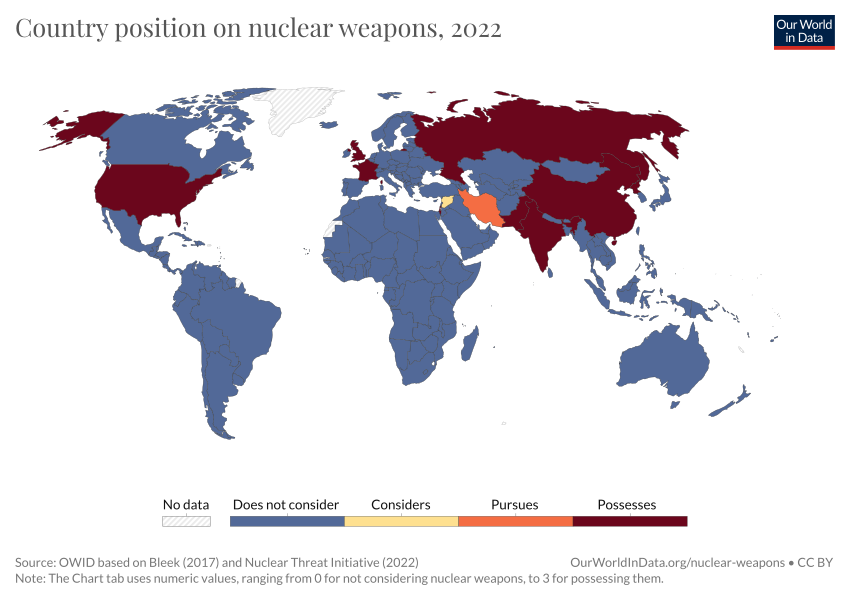
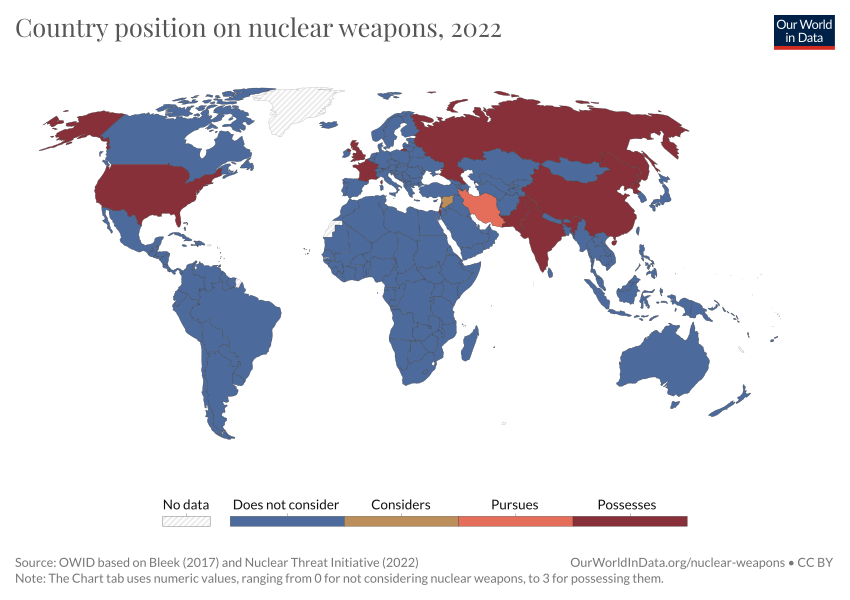
Deploy 2022-09-26T10:12:49.958Z Updating chart nuclear-weapons-proliferation Updating chart country-position-nuclear-weapons

diff --git a/co2-emissions.html b/co2-emissions.html
@@ -1,4 +1,4 @@
-<!doctype html><html><head><meta name="viewport" content="width=device-width, initial-scale=1"/><title>CO2 emissions - Our World in Data</title><meta name="description" content="How much CO2 does the world emit? Which countries emit the most?"/><link rel="canonical" href="https://ourworldindata.org/co2-emissions"/><link rel="alternate" type="application/atom+xml" href="/atom.xml"/><link rel="apple-touch-icon" sizes="180x180" href="/apple-touch-icon.png"/><meta property="fb:app_id" content="1149943818390250"/><meta property="og:url" content="https://ourworldindata.org/co2-emissions"/><meta property="og:title" content="CO2 emissions"/><meta property="og:description" content="How much CO2 does the world emit? Which countries emit the most?"/><meta property="og:image" content="https://ourworldindata.org/uploads/2022/03/Screenshot-2022-03-04-at-16.51.31-768x480.png"/><meta property="og:site_name" content="Our World in Data"/><meta name="twitter:card" content="summary_large_image"/><meta name="twitter:site" content="@OurWorldInData"/><meta name="twitter:creator" content="@OurWorldInData"/><meta name="twitter:title" content="CO2 emissions"/><meta name="twitter:description" content="How much CO2 does the world emit? Which countries emit the most?"/><meta name="twitter:image" content="https://ourworldindata.org/uploads/2022/03/Screenshot-2022-03-04-at-16.51.31-768x480.png"/><link href="https://fonts.googleapis.com/css?family=Lato:300,400,400i,700,700i|Playfair+Display:400,700&amp;display=swap" rel="stylesheet"/><link rel="stylesheet" href="https://ourworldindata.org/assets/commons.css"/><link rel="stylesheet" href="https://ourworldindata.org/assets/owid.css"/><meta name="citation_title" content="CO₂ and Greenhouse Gas Emissions"/><meta name="citation_fulltext_html_url" content="https://ourworldindata.org/co2-and-other-greenhouse-gas-emissions"/><meta name="citation_fulltext_world_readable" content=""/><meta name="citation_publication_date" content="2020/05/11"/><meta name="citation_journal_title" content="Our World in Data"/><meta name="citation_journal_abbrev" content="Our World in Data"/><meta name="citation_author" content="Hannah Ritchie"/><meta name="citation_author" content="Max Roser"/><meta name="citation_author" content="Pablo Rosado"/></head><body class=""><header class="site-header"><div class="wrapper site-navigation-bar"><div class="site-logo"><a href="/">Our World<br/> in Data</a></div><nav class="site-navigation"><div class="topics-button-wrapper"><a href="/#entries" class="topics-button"><div class="label">Articles <br/><strong>by topic</strong></div><div class="icon"><svg width="12" height="6"><path d="M0,0 L12,0 L6,6 Z" fill="currentColor"></path></svg></div></a></div><div><div class="site-primary-navigation"><form class="HeaderSearch" action="/search" method="GET"><input type="search" name="q" placeholder="Search..."/><div class="icon"><svg aria-hidden="true" focusable="false" data-prefix="fas" data-icon="magnifying-glass" class="svg-inline--fa fa-magnifying-glass " role="img" xmlns="http://www.w3.org/2000/svg" viewBox="0 0 512 512"><path fill="currentColor" d="M416 208c0 45.9-14.9 88.3-40 122.7L502.6 457.4c12.5 12.5 12.5 32.8 0 45.3s-32.8 12.5-45.3 0L330.7 376c-34.4 25.2-76.8 40-122.7 40C93.1 416 0 322.9 0 208S93.1 0 208 0S416 93.1 416 208zM208 352c79.5 0 144-64.5 144-144s-64.5-144-144-144S64 128.5 64 208s64.5 144 144 144z"></path></svg></div></form><ul class="site-primary-links"><li><a href="/blog" data-track-note="header-navigation">Latest</a></li><li><a href="/about" data-track-note="header-navigation">About</a></li><li><a href="/donate" data-track-note="header-navigation">Donate</a></li></ul></div><div class="site-secondary-navigation"><ul class="site-secondary-links"><li><a href="/charts" data-track-note="header-navigation">All charts</a></li><li><a href="https://sdg-tracker.org" data-track-note="header-navigation">Sustainable Development Goals Tracker</a></li></ul></div></div></nav><div class="header-logos-wrapper"><a href="https://www.oxfordmartin.ox.ac.uk/global-development" class="oxford-logo"><img src="https://ourworldindata.org/oms-logo.svg" alt="Oxford Martin School logo"/></a><a href="https://global-change-data-lab.org/" class="gcdl-logo"><img src="https://ourworldindata.org/gcdl-logo.svg" alt="Global Change Data Lab logo"/></a></div><div class="mobile-site-navigation"><button data-track-note="mobile-search-button"><svg aria-hidden="true" focusable="false" data-prefix="fas" data-icon="magnifying-glass" class="svg-inline--fa fa-magnifying-glass " role="img" xmlns="http://www.w3.org/2000/svg" viewBox="0 0 512 512"><path fill="currentColor" d="M416 208c0 45.9-14.9 88.3-40 122.7L502.6 457.4c12.5 12.5 12.5 32.8 0 45.3s-32.8 12.5-45.3 0L330.7 376c-34.4 25.2-76.8 40-122.7 40C93.1 416 0 322.9 0 208S93.1 0 208 0S416 93.1 416 208zM208 352c79.5 0 144-64.5 144-144s-64.5-144-144-144S64 128.5 64 208s64.5 144 144 144z"></path></svg></button><button data-track-note="mobile-newsletter-button"><svg aria-hidden="true" focusable="false" data-prefix="fas" data-icon="envelope-open-text" class="svg-inline--fa fa-envelope-open-text " role="img" xmlns="http://www.w3.org/2000/svg" viewBox="0 0 512 512"><path fill="currentColor" d="M215.4 96H144 107.8 96v8.8V144v40.4 89L.2 202.5c1.6-18.1 10.9-34.9 25.7-45.8L48 140.3V96c0-26.5 21.5-48 48-48h76.6l49.9-36.9C232.2 3.9 243.9 0 256 0s23.8 3.9 33.5 11L339.4 48H416c26.5 0 48 21.5 48 48v44.3l22.1 16.4c14.8 10.9 24.1 27.7 25.7 45.8L416 273.4v-89V144 104.8 96H404.2 368 296.6 215.4zM0 448V242.1L217.6 403.3c11.1 8.2 24.6 12.7 38.4 12.7s27.3-4.4 38.4-12.7L512 242.1V448v0c0 35.3-28.7 64-64 64H64c-35.3 0-64-28.7-64-64v0zM176 160H336c8.8 0 16 7.2 16 16s-7.2 16-16 16H176c-8.8 0-16-7.2-16-16s7.2-16 16-16zm0 64H336c8.8 0 16 7.2 16 16s-7.2 16-16 16H176c-8.8 0-16-7.2-16-16s7.2-16 16-16z"></path></svg></button><button data-track-note="mobile-hamburger-button"><svg aria-hidden="true" focusable="false" data-prefix="fas" data-icon="bars" class="svg-inline--fa fa-bars " role="img" xmlns="http://www.w3.org/2000/svg" viewBox="0 0 448 512"><path fill="currentColor" d="M0 96C0 78.3 14.3 64 32 64H416c17.7 0 32 14.3 32 32s-14.3 32-32 32H32C14.3 128 0 113.7 0 96zM0 256c0-17.7 14.3-32 32-32H416c17.7 0 32 14.3 32 32s-14.3 32-32 32H32c-17.7 0-32-14.3-32-32zM448 416c0 17.7-14.3 32-32 32H32c-17.7 0-32-14.3-32-32s14.3-32 32-32H416c17.7 0 32 14.3 32 32z"></path></svg></button></div></div></header><div class="alert-banner"><div class="content"><div class="text"><strong>COVID-19 vaccinations, cases, excess mortality, and much more</strong></div><a href="/coronavirus#explore-the-global-situation" data-track-note="covid-banner-click">Explore our COVID-19 data</a></div></div><main><article class="page with-sidebar large-banner"><div class="offset-header"><header class="article-header"><div class="article-titles"><h1 class="entry-title">CO2 emissions</h1><div class="breadcrumb"><a href="/">Home</a><span class="separator"><svg aria-hidden="true" focusable="false" data-prefix="fas" data-icon="angle-right" class="svg-inline--fa fa-angle-right " role="img" xmlns="http://www.w3.org/2000/svg" viewBox="0 0 320 512"><path fill="currentColor" d="M278.6 233.4c12.5 12.5 12.5 32.8 0 45.3l-160 160c-12.5 12.5-32.8 12.5-45.3 0s-12.5-32.8 0-45.3L210.7 256 73.4 118.6c-12.5-12.5-12.5-32.8 0-45.3s32.8-12.5 45.3 0l160 160z"></path></svg></span><a data-track-note="breadcrumb" href="/co2-and-other-greenhouse-gas-emissions">CO₂ and GHG Emissions</a><span class="separator"><svg aria-hidden="true" focusable="false" data-prefix="fas" data-icon="angle-right" class="svg-inline--fa fa-angle-right " role="img" xmlns="http://www.w3.org/2000/svg" viewBox="0 0 320 512"><path fill="currentColor" d="M278.6 233.4c12.5 12.5 12.5 32.8 0 45.3l-160 160c-12.5 12.5-32.8 12.5-45.3 0s-12.5-32.8 0-45.3L210.7 256 73.4 118.6c-12.5-12.5-12.5-32.8 0-45.3s32.8-12.5 45.3 0l160 160z"></path></svg></span><span>CO₂ emissions</span></div></div><div class="authors-byline"><a href="/team">by Hannah Ritchie and Max Roser</a></div><div class="tools"><a href="#licence"><svg aria-hidden="true" focusable="false" data-prefix="fab" data-icon="creative-commons" class="svg-inline--fa fa-creative-commons " role="img" xmlns="http://www.w3.org/2000/svg" viewBox="0 0 496 512"><path fill="currentColor" d="M245.83 214.87l-33.22 17.28c-9.43-19.58-25.24-19.93-27.46-19.93-22.13 0-33.22 14.61-33.22 43.84 0 23.57 9.21 43.84 33.22 43.84 14.47 0 24.65-7.09 30.57-21.26l30.55 15.5c-6.17 11.51-25.69 38.98-65.1 38.98-22.6 0-73.96-10.32-73.96-77.05 0-58.69 43-77.06 72.63-77.06 30.72-.01 52.7 11.95 65.99 35.86zm143.05 0l-32.78 17.28c-9.5-19.77-25.72-19.93-27.9-19.93-22.14 0-33.22 14.61-33.22 43.84 0 23.55 9.23 43.84 33.22 43.84 14.45 0 24.65-7.09 30.54-21.26l31 15.5c-2.1 3.75-21.39 38.98-65.09 38.98-22.69 0-73.96-9.87-73.96-77.05 0-58.67 42.97-77.06 72.63-77.06 30.71-.01 52.58 11.95 65.56 35.86zM247.56 8.05C104.74 8.05 0 123.11 0 256.05c0 138.49 113.6 248 247.56 248 129.93 0 248.44-100.87 248.44-248 0-137.87-106.62-248-248.44-248zm.87 450.81c-112.54 0-203.7-93.04-203.7-202.81 0-105.42 85.43-203.27 203.72-203.27 112.53 0 202.82 89.46 202.82 203.26-.01 121.69-99.68 202.82-202.84 202.82z"></path></svg>Reuse our work freely</a><a href="#citation"><svg aria-hidden="true" focusable="false" data-prefix="fas" data-icon="book" class="svg-inline--fa fa-book " role="img" xmlns="http://www.w3.org/2000/svg" viewBox="0 0 448 512"><path fill="currentColor" d="M96 0C43 0 0 43 0 96V416c0 53 43 96 96 96H384h32c17.7 0 32-14.3 32-32s-14.3-32-32-32V384c17.7 0 32-14.3 32-32V32c0-17.7-14.3-32-32-32H384 96zm0 384H352v64H96c-17.7 0-32-14.3-32-32s14.3-32 32-32zm32-240c0-8.8 7.2-16 16-16H336c8.8 0 16 7.2 16 16s-7.2 16-16 16H144c-8.8 0-16-7.2-16-16zm16 48H336c8.8 0 16 7.2 16 16s-7.2 16-16 16H144c-8.8 0-16-7.2-16-16s7.2-16 16-16z"></path></svg>Cite this research</a></div></header></div><div class="offset-subnavigation"><div class="site-subnavigation"><div class="site-subnavigation-scroll"><ul class="site-subnavigation-links"><li class="highlight"><a href="/co2-and-other-greenhouse-gas-emissions" data-track-note="co2-subnav-co2-and-ghg-emissions">CO₂ and GHG Emissions<svg aria-hidden="true" focusable="false" data-prefix="fas" data-icon="chevron-left" class="svg-inline--fa fa-chevron-left " role="img" xmlns="http://www.w3.org/2000/svg" viewBox="0 0 384 512"><path fill="currentColor" d="M41.4 233.4c-12.5 12.5-12.5 32.8 0 45.3l192 192c12.5 12.5 32.8 12.5 45.3 0s12.5-32.8 0-45.3L109.3 256 278.6 86.6c12.5-12.5 12.5-32.8 0-45.3s-32.8-12.5-45.3 0l-192 192z"></path></svg></a></li><li class=""><a href="/co2-and-other-greenhouse-gas-emissions#co2-and-greenhouse-gas-emissions-country-profiles" data-track-note="co2-subnav-by-country">By country</a></li><li class=""><a href="/explorers/co2" data-track-note="co2-subnav-co2-data-explorer">Data explorer</a></li><li class="current"><a href="/co2-emissions" data-track-note="co2-subnav-co2-emissions">CO₂ emissions</a></li><li class=""><a href="/emissions-by-fuel" data-track-note="co2-subnav-by-fuel">CO₂ by fuel</a></li><li class=""><a href="/greenhouse-gas-emissions" data-track-note="co2-subnav-ghg-emissions">GHG emissions</a></li><li class=""><a href="/emissions-by-sector" data-track-note="co2-subnav-by-sector">By sector</a></li><li class=""><a href="/atmospheric-concentrations" data-track-note="co2-subnav-atm-concentrations">Atmospheric concentrations</a></li><li class=""><a href="/explorers/climate-change" data-track-note="co2-subnav-climate-impacts">Climate impacts</a></li></ul></div></div></div><div class="content-wrapper"><div class="toc-wrapper"><aside class="entry-sidebar"><div class="sticky-sentinel"></div><nav class="entry-toc"><ul><li><a href="#" data-track-note="toc-header">CO2 emissions</a></li><li class="section"><a href="#global-co2-emissions-from-fossil-fuels" data-track-note="toc-link">Global CO2 emissions from fossil fuels</a></li><li class="subsection"><a href="#global-co2-emissions-from-fossil-fuels-global-co2-emissions-from-fossil-fuels" data-track-note="toc-link">Global CO2 emissions from fossil fuels</a></li><li class="subsection"><a href="#global-co2-emissions-from-fossil-fuels-and-land-use-change" data-track-note="toc-link">Global CO2 emissions from fossil fuels and land use change</a></li><li class="subsection"><a href="#co2-emissions-by-region" data-track-note="toc-link">CO2 emissions by region</a></li><li class="section"><a href="#per-capita-co2-emissions" data-track-note="toc-link">Per capita CO2 emissions</a></li><li class="section"><a href="#annual-co2-emissions" data-track-note="toc-link">Annual CO2 emissions</a></li><li class="section"><a href="#annual-change-in-co2-emissions" data-track-note="toc-link">Annual change in CO2 emissions</a></li><li class="section"><a href="#cumulative-co2-emissions" data-track-note="toc-link">Cumulative CO2 emissions</a></li><li class="section"><a href="#consumption-based-trade-adjusted-emissions" data-track-note="toc-link">Consumption-based (trade-adjusted) emissions</a></li><li class="section"><a href="#decoupling-co2-emissions-from-economic-growth" data-track-note="toc-link">Decoupling CO₂ emissions from economic growth</a></li><li class="section"><a href="#global-inequalities-in-co2-emissions" data-track-note="toc-link">Global inequalities in CO2 emissions</a></li><li class="subsection"><a href="#global-inequalities-by-production" data-track-note="toc-link">Global inequalities by production</a></li><li class="subsection"><a href="#global-inequalities-by-consumption" data-track-note="toc-link">Global inequalities by consumption</a></li><li class="section"><a href="#how-do-we-measure-or-estimate-co2-emissions" data-track-note="toc-link">How do we measure or estimate CO2 emissions?</a></li><li class="section"><a href="#endnotes" data-track-note="toc-link">Endnotes</a></li><li class="section"><a href="#licence" data-track-note="toc-link">Licence</a></li><li class="section"><a href="#citation" data-track-note="toc-link">Citation</a></li></ul></nav><div class="toggle-toc"><button data-track-note="page-toggle-toc" aria-label="Open table of contents"><svg aria-hidden="true" focusable="false" data-prefix="fas" data-icon="bars" class="svg-inline--fa fa-bars " role="img" xmlns="http://www.w3.org/2000/svg" viewBox="0 0 448 512"><path fill="currentColor" d="M0 96C0 78.3 14.3 64 32 64H416c17.7 0 32 14.3 32 32s-14.3 32-32 32H32C14.3 128 0 113.7 0 96zM0 256c0-17.7 14.3-32 32-32H416c17.7 0 32 14.3 32 32s-14.3 32-32 32H32c-17.7 0-32-14.3-32-32zM448 416c0 17.7-14.3 32-32 32H32c-17.7 0-32-14.3-32-32s14.3-32 32-32H416c17.7 0 32 14.3 32 32z"></path></svg><span class="label">Contents</span></button></div></aside></div><div class="offset-content"><div class="content-and-footnotes"><div class="article-content"><section><div class="wp-block-columns is-style-sticky-right"><div class="wp-block-column"><p>You can&nbsp;<strong><a href="https://github.com/owid/co2-data">download</a></strong>&nbsp;our complete <em>Our World in Data</em> CO<sub>2</sub> and Greenhouse Gas Emissions database.</p><hr class="wp-block-separator"><p>Carbon dioxide emissions are the primary driver of global climate change. It’s widely recognised that to avoid the worst impacts of climate change, the world needs to urgently reduce emissions. But, how this responsibility is shared between regions, countries, and individuals has been an endless point of contention in international discussions. </p><p>This debate arises from the various ways in which emissions are compared: as annual emissions by country; emissions per person; historical contributions; and whether they adjust for traded goods and services. These metrics can tell very different stories. </p><p>We teamed up with the YouTube channel, <em>Kurzgesagt</em>, to produce a video which explored these different metrics in detail: <a href="https://www.youtube.com/watch?v=ipVxxxqwBQw">‘Who is responsible for climate change? – Who needs to fix it?’</a>. All of the data and research featured in this video is contained in this article: below we look in detail at the many ways emissions are broken down.</p><div class="wp-container-6331745496db6 wp-block-group">    <div class="block-wrapper"><div class="wp-block-owid-prominent-link with-image" data-no-lightbox="true" data-style="is-style-thin" data-title="&nbsp;‘Who is responsible for climate change? – Who needs to fix it?’"><a href="https://www.youtube.com/watch?v=ipVxxxqwBQw"><figure><img width="768" height="433" src="https://ourworldindata.org/uploads/2020/06/CO2-Kurzgesagt-768x433.png" class="attachment-medium_large size-medium_large" alt="Co2 kurzgesagt" loading="lazy" srcset="https://ourworldindata.org/uploads/2020/06/CO2-Kurzgesagt-768x433.png 768w, https://ourworldindata.org/uploads/2020/06/CO2-Kurzgesagt-400x225.png 400w, https://ourworldindata.org/uploads/2020/06/CO2-Kurzgesagt-800x451.png 800w, https://ourworldindata.org/uploads/2020/06/CO2-Kurzgesagt-150x84.png 150w, https://ourworldindata.org/uploads/2020/06/CO2-Kurzgesagt.png 1422w" sizes="(max-width: 768px) 100vw, 768px" data-high-res-src="https://ourworldindata.org/uploads/2020/06/CO2-Kurzgesagt.png"></figure><div class="content-wrapper"><div class="content">
+<!doctype html><html><head><meta name="viewport" content="width=device-width, initial-scale=1"/><title>CO2 emissions - Our World in Data</title><meta name="description" content="How much CO2 does the world emit? Which countries emit the most?"/><link rel="canonical" href="https://ourworldindata.org/co2-emissions"/><link rel="alternate" type="application/atom+xml" href="/atom.xml"/><link rel="apple-touch-icon" sizes="180x180" href="/apple-touch-icon.png"/><meta property="fb:app_id" content="1149943818390250"/><meta property="og:url" content="https://ourworldindata.org/co2-emissions"/><meta property="og:title" content="CO2 emissions"/><meta property="og:description" content="How much CO2 does the world emit? Which countries emit the most?"/><meta property="og:image" content="https://ourworldindata.org/uploads/2022/03/Screenshot-2022-03-04-at-16.51.31-768x480.png"/><meta property="og:site_name" content="Our World in Data"/><meta name="twitter:card" content="summary_large_image"/><meta name="twitter:site" content="@OurWorldInData"/><meta name="twitter:creator" content="@OurWorldInData"/><meta name="twitter:title" content="CO2 emissions"/><meta name="twitter:description" content="How much CO2 does the world emit? Which countries emit the most?"/><meta name="twitter:image" content="https://ourworldindata.org/uploads/2022/03/Screenshot-2022-03-04-at-16.51.31-768x480.png"/><link href="https://fonts.googleapis.com/css?family=Lato:300,400,400i,700,700i|Playfair+Display:400,700&amp;display=swap" rel="stylesheet"/><link rel="stylesheet" href="https://ourworldindata.org/assets/commons.css"/><link rel="stylesheet" href="https://ourworldindata.org/assets/owid.css"/><meta name="citation_title" content="CO₂ and Greenhouse Gas Emissions"/><meta name="citation_fulltext_html_url" content="https://ourworldindata.org/co2-and-other-greenhouse-gas-emissions"/><meta name="citation_fulltext_world_readable" content=""/><meta name="citation_publication_date" content="2020/05/11"/><meta name="citation_journal_title" content="Our World in Data"/><meta name="citation_journal_abbrev" content="Our World in Data"/><meta name="citation_author" content="Hannah Ritchie"/><meta name="citation_author" content="Max Roser"/><meta name="citation_author" content="Pablo Rosado"/></head><body class=""><header class="site-header"><div class="wrapper site-navigation-bar"><div class="site-logo"><a href="/">Our World<br/> in Data</a></div><nav class="site-navigation"><div class="topics-button-wrapper"><a href="/#entries" class="topics-button"><div class="label">Articles <br/><strong>by topic</strong></div><div class="icon"><svg width="12" height="6"><path d="M0,0 L12,0 L6,6 Z" fill="currentColor"></path></svg></div></a></div><div><div class="site-primary-navigation"><form class="HeaderSearch" action="/search" method="GET"><input type="search" name="q" placeholder="Search..."/><div class="icon"><svg aria-hidden="true" focusable="false" data-prefix="fas" data-icon="magnifying-glass" class="svg-inline--fa fa-magnifying-glass " role="img" xmlns="http://www.w3.org/2000/svg" viewBox="0 0 512 512"><path fill="currentColor" d="M416 208c0 45.9-14.9 88.3-40 122.7L502.6 457.4c12.5 12.5 12.5 32.8 0 45.3s-32.8 12.5-45.3 0L330.7 376c-34.4 25.2-76.8 40-122.7 40C93.1 416 0 322.9 0 208S93.1 0 208 0S416 93.1 416 208zM208 352c79.5 0 144-64.5 144-144s-64.5-144-144-144S64 128.5 64 208s64.5 144 144 144z"></path></svg></div></form><ul class="site-primary-links"><li><a href="/blog" data-track-note="header-navigation">Latest</a></li><li><a href="/about" data-track-note="header-navigation">About</a></li><li><a href="/donate" data-track-note="header-navigation">Donate</a></li></ul></div><div class="site-secondary-navigation"><ul class="site-secondary-links"><li><a href="/charts" data-track-note="header-navigation">All charts</a></li><li><a href="https://sdg-tracker.org" data-track-note="header-navigation">Sustainable Development Goals Tracker</a></li></ul></div></div></nav><div class="header-logos-wrapper"><a href="https://www.oxfordmartin.ox.ac.uk/global-development" class="oxford-logo"><img src="https://ourworldindata.org/oms-logo.svg" alt="Oxford Martin School logo"/></a><a href="https://global-change-data-lab.org/" class="gcdl-logo"><img src="https://ourworldindata.org/gcdl-logo.svg" alt="Global Change Data Lab logo"/></a></div><div class="mobile-site-navigation"><button data-track-note="mobile-search-button"><svg aria-hidden="true" focusable="false" data-prefix="fas" data-icon="magnifying-glass" class="svg-inline--fa fa-magnifying-glass " role="img" xmlns="http://www.w3.org/2000/svg" viewBox="0 0 512 512"><path fill="currentColor" d="M416 208c0 45.9-14.9 88.3-40 122.7L502.6 457.4c12.5 12.5 12.5 32.8 0 45.3s-32.8 12.5-45.3 0L330.7 376c-34.4 25.2-76.8 40-122.7 40C93.1 416 0 322.9 0 208S93.1 0 208 0S416 93.1 416 208zM208 352c79.5 0 144-64.5 144-144s-64.5-144-144-144S64 128.5 64 208s64.5 144 144 144z"></path></svg></button><button data-track-note="mobile-newsletter-button"><svg aria-hidden="true" focusable="false" data-prefix="fas" data-icon="envelope-open-text" class="svg-inline--fa fa-envelope-open-text " role="img" xmlns="http://www.w3.org/2000/svg" viewBox="0 0 512 512"><path fill="currentColor" d="M215.4 96H144 107.8 96v8.8V144v40.4 89L.2 202.5c1.6-18.1 10.9-34.9 25.7-45.8L48 140.3V96c0-26.5 21.5-48 48-48h76.6l49.9-36.9C232.2 3.9 243.9 0 256 0s23.8 3.9 33.5 11L339.4 48H416c26.5 0 48 21.5 48 48v44.3l22.1 16.4c14.8 10.9 24.1 27.7 25.7 45.8L416 273.4v-89V144 104.8 96H404.2 368 296.6 215.4zM0 448V242.1L217.6 403.3c11.1 8.2 24.6 12.7 38.4 12.7s27.3-4.4 38.4-12.7L512 242.1V448v0c0 35.3-28.7 64-64 64H64c-35.3 0-64-28.7-64-64v0zM176 160H336c8.8 0 16 7.2 16 16s-7.2 16-16 16H176c-8.8 0-16-7.2-16-16s7.2-16 16-16zm0 64H336c8.8 0 16 7.2 16 16s-7.2 16-16 16H176c-8.8 0-16-7.2-16-16s7.2-16 16-16z"></path></svg></button><button data-track-note="mobile-hamburger-button"><svg aria-hidden="true" focusable="false" data-prefix="fas" data-icon="bars" class="svg-inline--fa fa-bars " role="img" xmlns="http://www.w3.org/2000/svg" viewBox="0 0 448 512"><path fill="currentColor" d="M0 96C0 78.3 14.3 64 32 64H416c17.7 0 32 14.3 32 32s-14.3 32-32 32H32C14.3 128 0 113.7 0 96zM0 256c0-17.7 14.3-32 32-32H416c17.7 0 32 14.3 32 32s-14.3 32-32 32H32c-17.7 0-32-14.3-32-32zM448 416c0 17.7-14.3 32-32 32H32c-17.7 0-32-14.3-32-32s14.3-32 32-32H416c17.7 0 32 14.3 32 32z"></path></svg></button></div></div></header><div class="alert-banner"><div class="content"><div class="text"><strong>COVID-19 vaccinations, cases, excess mortality, and much more</strong></div><a href="/coronavirus#explore-the-global-situation" data-track-note="covid-banner-click">Explore our COVID-19 data</a></div></div><main><article class="page with-sidebar large-banner"><div class="offset-header"><header class="article-header"><div class="article-titles"><h1 class="entry-title">CO2 emissions</h1><div class="breadcrumb"><a href="/">Home</a><span class="separator"><svg aria-hidden="true" focusable="false" data-prefix="fas" data-icon="angle-right" class="svg-inline--fa fa-angle-right " role="img" xmlns="http://www.w3.org/2000/svg" viewBox="0 0 320 512"><path fill="currentColor" d="M278.6 233.4c12.5 12.5 12.5 32.8 0 45.3l-160 160c-12.5 12.5-32.8 12.5-45.3 0s-12.5-32.8 0-45.3L210.7 256 73.4 118.6c-12.5-12.5-12.5-32.8 0-45.3s32.8-12.5 45.3 0l160 160z"></path></svg></span><a data-track-note="breadcrumb" href="/co2-and-other-greenhouse-gas-emissions">CO₂ and GHG Emissions</a><span class="separator"><svg aria-hidden="true" focusable="false" data-prefix="fas" data-icon="angle-right" class="svg-inline--fa fa-angle-right " role="img" xmlns="http://www.w3.org/2000/svg" viewBox="0 0 320 512"><path fill="currentColor" d="M278.6 233.4c12.5 12.5 12.5 32.8 0 45.3l-160 160c-12.5 12.5-32.8 12.5-45.3 0s-12.5-32.8 0-45.3L210.7 256 73.4 118.6c-12.5-12.5-12.5-32.8 0-45.3s32.8-12.5 45.3 0l160 160z"></path></svg></span><span>CO₂ emissions</span></div></div><div class="authors-byline"><a href="/team">by Hannah Ritchie and Max Roser</a></div><div class="tools"><a href="#licence"><svg aria-hidden="true" focusable="false" data-prefix="fab" data-icon="creative-commons" class="svg-inline--fa fa-creative-commons " role="img" xmlns="http://www.w3.org/2000/svg" viewBox="0 0 496 512"><path fill="currentColor" d="M245.83 214.87l-33.22 17.28c-9.43-19.58-25.24-19.93-27.46-19.93-22.13 0-33.22 14.61-33.22 43.84 0 23.57 9.21 43.84 33.22 43.84 14.47 0 24.65-7.09 30.57-21.26l30.55 15.5c-6.17 11.51-25.69 38.98-65.1 38.98-22.6 0-73.96-10.32-73.96-77.05 0-58.69 43-77.06 72.63-77.06 30.72-.01 52.7 11.95 65.99 35.86zm143.05 0l-32.78 17.28c-9.5-19.77-25.72-19.93-27.9-19.93-22.14 0-33.22 14.61-33.22 43.84 0 23.55 9.23 43.84 33.22 43.84 14.45 0 24.65-7.09 30.54-21.26l31 15.5c-2.1 3.75-21.39 38.98-65.09 38.98-22.69 0-73.96-9.87-73.96-77.05 0-58.67 42.97-77.06 72.63-77.06 30.71-.01 52.58 11.95 65.56 35.86zM247.56 8.05C104.74 8.05 0 123.11 0 256.05c0 138.49 113.6 248 247.56 248 129.93 0 248.44-100.87 248.44-248 0-137.87-106.62-248-248.44-248zm.87 450.81c-112.54 0-203.7-93.04-203.7-202.81 0-105.42 85.43-203.27 203.72-203.27 112.53 0 202.82 89.46 202.82 203.26-.01 121.69-99.68 202.82-202.84 202.82z"></path></svg>Reuse our work freely</a><a href="#citation"><svg aria-hidden="true" focusable="false" data-prefix="fas" data-icon="book" class="svg-inline--fa fa-book " role="img" xmlns="http://www.w3.org/2000/svg" viewBox="0 0 448 512"><path fill="currentColor" d="M96 0C43 0 0 43 0 96V416c0 53 43 96 96 96H384h32c17.7 0 32-14.3 32-32s-14.3-32-32-32V384c17.7 0 32-14.3 32-32V32c0-17.7-14.3-32-32-32H384 96zm0 384H352v64H96c-17.7 0-32-14.3-32-32s14.3-32 32-32zm32-240c0-8.8 7.2-16 16-16H336c8.8 0 16 7.2 16 16s-7.2 16-16 16H144c-8.8 0-16-7.2-16-16zm16 48H336c8.8 0 16 7.2 16 16s-7.2 16-16 16H144c-8.8 0-16-7.2-16-16s7.2-16 16-16z"></path></svg>Cite this research</a></div></header></div><div class="offset-subnavigation"><div class="site-subnavigation"><div class="site-subnavigation-scroll"><ul class="site-subnavigation-links"><li class="highlight"><a href="/co2-and-other-greenhouse-gas-emissions" data-track-note="co2-subnav-co2-and-ghg-emissions">CO₂ and GHG Emissions<svg aria-hidden="true" focusable="false" data-prefix="fas" data-icon="chevron-left" class="svg-inline--fa fa-chevron-left " role="img" xmlns="http://www.w3.org/2000/svg" viewBox="0 0 384 512"><path fill="currentColor" d="M41.4 233.4c-12.5 12.5-12.5 32.8 0 45.3l192 192c12.5 12.5 32.8 12.5 45.3 0s12.5-32.8 0-45.3L109.3 256 278.6 86.6c12.5-12.5 12.5-32.8 0-45.3s-32.8-12.5-45.3 0l-192 192z"></path></svg></a></li><li class=""><a href="/co2-and-other-greenhouse-gas-emissions#co2-and-greenhouse-gas-emissions-country-profiles" data-track-note="co2-subnav-by-country">By country</a></li><li class=""><a href="/explorers/co2" data-track-note="co2-subnav-co2-data-explorer">Data explorer</a></li><li class="current"><a href="/co2-emissions" data-track-note="co2-subnav-co2-emissions">CO₂ emissions</a></li><li class=""><a href="/emissions-by-fuel" data-track-note="co2-subnav-by-fuel">CO₂ by fuel</a></li><li class=""><a href="/greenhouse-gas-emissions" data-track-note="co2-subnav-ghg-emissions">GHG emissions</a></li><li class=""><a href="/emissions-by-sector" data-track-note="co2-subnav-by-sector">By sector</a></li><li class=""><a href="/atmospheric-concentrations" data-track-note="co2-subnav-atm-concentrations">Atmospheric concentrations</a></li><li class=""><a href="/explorers/climate-change" data-track-note="co2-subnav-climate-impacts">Climate impacts</a></li></ul></div></div></div><div class="content-wrapper"><div class="toc-wrapper"><aside class="entry-sidebar"><div class="sticky-sentinel"></div><nav class="entry-toc"><ul><li><a href="#" data-track-note="toc-header">CO2 emissions</a></li><li class="section"><a href="#global-co2-emissions-from-fossil-fuels" data-track-note="toc-link">Global CO2 emissions from fossil fuels</a></li><li class="subsection"><a href="#global-co2-emissions-from-fossil-fuels-global-co2-emissions-from-fossil-fuels" data-track-note="toc-link">Global CO2 emissions from fossil fuels</a></li><li class="subsection"><a href="#global-co2-emissions-from-fossil-fuels-and-land-use-change" data-track-note="toc-link">Global CO2 emissions from fossil fuels and land use change</a></li><li class="subsection"><a href="#co2-emissions-by-region" data-track-note="toc-link">CO2 emissions by region</a></li><li class="section"><a href="#per-capita-co2-emissions" data-track-note="toc-link">Per capita CO2 emissions</a></li><li class="section"><a href="#annual-co2-emissions" data-track-note="toc-link">Annual CO2 emissions</a></li><li class="section"><a href="#annual-change-in-co2-emissions" data-track-note="toc-link">Annual change in CO2 emissions</a></li><li class="section"><a href="#cumulative-co2-emissions" data-track-note="toc-link">Cumulative CO2 emissions</a></li><li class="section"><a href="#consumption-based-trade-adjusted-emissions" data-track-note="toc-link">Consumption-based (trade-adjusted) emissions</a></li><li class="section"><a href="#decoupling-co2-emissions-from-economic-growth" data-track-note="toc-link">Decoupling CO₂ emissions from economic growth</a></li><li class="section"><a href="#global-inequalities-in-co2-emissions" data-track-note="toc-link">Global inequalities in CO2 emissions</a></li><li class="subsection"><a href="#global-inequalities-by-production" data-track-note="toc-link">Global inequalities by production</a></li><li class="subsection"><a href="#global-inequalities-by-consumption" data-track-note="toc-link">Global inequalities by consumption</a></li><li class="section"><a href="#how-do-we-measure-or-estimate-co2-emissions" data-track-note="toc-link">How do we measure or estimate CO2 emissions?</a></li><li class="section"><a href="#endnotes" data-track-note="toc-link">Endnotes</a></li><li class="section"><a href="#licence" data-track-note="toc-link">Licence</a></li><li class="section"><a href="#citation" data-track-note="toc-link">Citation</a></li></ul></nav><div class="toggle-toc"><button data-track-note="page-toggle-toc" aria-label="Open table of contents"><svg aria-hidden="true" focusable="false" data-prefix="fas" data-icon="bars" class="svg-inline--fa fa-bars " role="img" xmlns="http://www.w3.org/2000/svg" viewBox="0 0 448 512"><path fill="currentColor" d="M0 96C0 78.3 14.3 64 32 64H416c17.7 0 32 14.3 32 32s-14.3 32-32 32H32C14.3 128 0 113.7 0 96zM0 256c0-17.7 14.3-32 32-32H416c17.7 0 32 14.3 32 32s-14.3 32-32 32H32c-17.7 0-32-14.3-32-32zM448 416c0 17.7-14.3 32-32 32H32c-17.7 0-32-14.3-32-32s14.3-32 32-32H416c17.7 0 32 14.3 32 32z"></path></svg><span class="label">Contents</span></button></div></aside></div><div class="offset-content"><div class="content-and-footnotes"><div class="article-content"><section><div class="wp-block-columns is-style-sticky-right"><div class="wp-block-column"><p>You can&nbsp;<strong><a href="https://github.com/owid/co2-data">download</a></strong>&nbsp;our complete <em>Our World in Data</em> CO<sub>2</sub> and Greenhouse Gas Emissions database.</p><hr class="wp-block-separator"><p>Carbon dioxide emissions are the primary driver of global climate change. It’s widely recognised that to avoid the worst impacts of climate change, the world needs to urgently reduce emissions. But, how this responsibility is shared between regions, countries, and individuals has been an endless point of contention in international discussions. </p><p>This debate arises from the various ways in which emissions are compared: as annual emissions by country; emissions per person; historical contributions; and whether they adjust for traded goods and services. These metrics can tell very different stories. </p><p>We teamed up with the YouTube channel, <em>Kurzgesagt</em>, to produce a video which explored these different metrics in detail: <a href="https://www.youtube.com/watch?v=ipVxxxqwBQw">‘Who is responsible for climate change? – Who needs to fix it?’</a>. All of the data and research featured in this video is contained in this article: below we look in detail at the many ways emissions are broken down.</p><div class="wp-container-63317b4b98b28 wp-block-group">    <div class="block-wrapper"><div class="wp-block-owid-prominent-link with-image" data-no-lightbox="true" data-style="is-style-thin" data-title="&nbsp;‘Who is responsible for climate change? – Who needs to fix it?’"><a href="https://www.youtube.com/watch?v=ipVxxxqwBQw"><figure><img width="768" height="433" src="https://ourworldindata.org/uploads/2020/06/CO2-Kurzgesagt-768x433.png" class="attachment-medium_large size-medium_large" alt="Co2 kurzgesagt" loading="lazy" srcset="https://ourworldindata.org/uploads/2020/06/CO2-Kurzgesagt-768x433.png 768w, https://ourworldindata.org/uploads/2020/06/CO2-Kurzgesagt-400x225.png 400w, https://ourworldindata.org/uploads/2020/06/CO2-Kurzgesagt-800x451.png 800w, https://ourworldindata.org/uploads/2020/06/CO2-Kurzgesagt-150x84.png 150w, https://ourworldindata.org/uploads/2020/06/CO2-Kurzgesagt.png 1422w" sizes="(max-width: 768px) 100vw, 768px" data-high-res-src="https://ourworldindata.org/uploads/2020/06/CO2-Kurzgesagt.png"></figure><div class="content-wrapper"><div class="content">
 
 <p>We teamed up with YouTube channel <em>Kurzgesagt</em> to make a video on comparisons of CO<sub>2</sub> emissions.</p>
 

diff --git a/nuclear-weapons.html b/nuclear-weapons.html
@@ -18,7 +18,7 @@
         
         <section><div class="section-heading"><div class="wrapper"><div><h2 id="nuclear-powers-and-proliferation">Nuclear powers and proliferation<a class="deep-link" href="#nuclear-powers-and-proliferation"></a></h2></div></div></div><div class="wp-block-columns is-style-sticky-right"><div class="wp-block-column"><p>The states with nuclear capabilities now includes the United States, Russia, United Kingdom, France, China, India, Pakistan, Israel and North Korea. It is a common misconception though that more and more countries are exploring and pursuing nuclear weapons since the Second World War. As the charts demonstrate, nuclear weapons peaked in the 1980, and has remained steady since the early 1990s.</p></div><div class="wp-block-column"><div class="wp-sticky-container"></div></div></div><div class="wp-block-columns is-style-side-by-side"><div class="wp-block-column"><figure data-grapher-src="https://ourworldindata.org/grapher/country-position-nuclear-weapons" class="grapherPreview">
                     <a href="https://ourworldindata.org/grapher/country-position-nuclear-weapons" target="_blank">
-                        <div><img src="https://ourworldindata.org/exports/country-position-nuclear-weapons_v41_850x600.svg" width="850" height="600" loading="lazy" data-no-lightbox="" alt="Country position nuclear weapons v41 850x600"></div>
+                        <div><img src="https://ourworldindata.org/exports/country-position-nuclear-weapons_v42_850x600.svg" width="850" height="600" loading="lazy" data-no-lightbox="" alt="Country position nuclear weapons v42 850x600"></div>
                         <div class="interactionNotice">
                             <span class="icon"><svg aria-hidden="true" focusable="false" data-prefix="fas" data-icon="hand-pointer" class="svg-inline--fa fa-hand-pointer fa-w-14" role="img" xmlns="http://www.w3.org/2000/svg" viewBox="0 0 448 617">
     <path fill="currentColor" d="M448,344.59v96a40.36,40.36,0,0,1-1.06,9.16l-32,136A40,40,0,0,1,376,616.59H168a40,40,0,0,1-32.35-16.47l-128-176a40,40,0,0,1,64.7-47.06L104,420.58v-276a40,40,0,0,1,80,0v200h8v-40a40,40,0,1,1,80,0v40h8v-24a40,40,0,1,1,80,0v24h8a40,40,0,1,1,80,0Zm-256,80h-8v96h8Zm88,0h-8v96h8Zm88,0h-8v96h8Z" transform="translate(0 -0.41)"></path>
@@ -29,7 +29,7 @@
                     </a>
                 </figure></div><div class="wp-block-column"><figure data-grapher-src="https://ourworldindata.org/grapher/nuclear-weapons-proliferation" class="grapherPreview">
                     <a href="https://ourworldindata.org/grapher/nuclear-weapons-proliferation" target="_blank">
-                        <div><img src="https://ourworldindata.org/exports/nuclear-weapons-proliferation_v23_850x600.svg" width="850" height="600" loading="lazy" data-no-lightbox="" alt="Nuclear weapons proliferation v23 850x600"></div>
+                        <div><img src="https://ourworldindata.org/exports/nuclear-weapons-proliferation_v24_850x600.svg" width="850" height="600" loading="lazy" data-no-lightbox="" alt="Nuclear weapons proliferation v24 850x600"></div>
                         <div class="interactionNotice">
                             <span class="icon"><svg aria-hidden="true" focusable="false" data-prefix="fas" data-icon="hand-pointer" class="svg-inline--fa fa-hand-pointer fa-w-14" role="img" xmlns="http://www.w3.org/2000/svg" viewBox="0 0 448 617">
     <path fill="currentColor" d="M448,344.59v96a40.36,40.36,0,0,1-1.06,9.16l-32,136A40,40,0,0,1,376,616.59H168a40,40,0,0,1-32.35-16.47l-128-176a40,40,0,0,1,64.7-47.06L104,420.58v-276a40,40,0,0,1,80,0v200h8v-40a40,40,0,1,1,80,0v40h8v-24a40,40,0,1,1,80,0v24h8a40,40,0,1,1,80,0Zm-256,80h-8v96h8Zm88,0h-8v96h8Zm88,0h-8v96h8Z" transform="translate(0 -0.41)"></path>

diff --git a/energy-archive.html b/energy-archive.html
@@ -201,7 +201,7 @@
 
 
 
-<div class="wp-sticky-container"><div data-project="energy" class="wp-block-search-country-profile"></div><h5><strong>Our 12 most visited country profiles</strong></h5><div class="wp-container-633174528191d wp-block-group"><div class="wp-block-group__inner-container">
+<div class="wp-sticky-container"><div data-project="energy" class="wp-block-search-country-profile"></div><h5><strong>Our 12 most visited country profiles</strong></h5><div class="wp-container-63317b49bc1bd wp-block-group"><div class="wp-block-group__inner-container">
 <ul class="covid-country-tiles"><li><a href="https://ourworldindata.org/energy/country/united-states?country=~USA">United States</a></li><li><a href="https://ourworldindata.org/energy/country/united-kingdom?country=~GBR">United Kingdom</a></li><li><a href="https://ourworldindata.org/energy/country/china?country=~CHN">China</a></li><li><a href="https://ourworldindata.org/energy/country/india?country=~IND">India</a></li><li><a href="https://ourworldindata.org/energy/country/brazil?country=~BRA">Brazil</a></li><li><a href="https://ourworldindata.org/energy/country/south-africa?country=~ZAF">South Africa</a></li><li><a href="https://ourworldindata.org/energy/country/germany?country=~DEU">Germany</a></li><li><a href="https://ourworldindata.org/energy/country/spain?country=~ESP">Spain</a></li><li><a href="https://ourworldindata.org/energy/country/france?country=~FRA">France</a></li><li><a href="https://ourworldindata.org/energy/country/canada?country=~CAN">Canada</a></li><li><a href="https://ourworldindata.org/energy/country/australia?country=~AUS">Australia</a></li><li><a href="https://ourworldindata.org/energy/country/sweden?country=~SWE">Sweden</a></li></ul>
 </div></div></div></div>
 

diff --git a/co2-and-other-greenhouse-gas-emissions.html b/co2-and-other-greenhouse-gas-emissions.html
@@ -23,7 +23,7 @@
 
 
 
-<div class="wp-sticky-container"><div data-project="co2" class="wp-block-search-country-profile"></div><h5><strong>Our 12 most visited country profiles</strong></h5><div class="wp-container-63317454afae5 wp-block-group">
+<div class="wp-sticky-container"><div data-project="co2" class="wp-block-search-country-profile"></div><h5><strong>Our 12 most visited country profiles</strong></h5><div class="wp-container-63317b4bb040d wp-block-group">
 <ul class="covid-country-tiles"><li><a href="https://ourworldindata.org/co2/country/united-states?country=~USA">United States</a></li><li><a href="https://ourworldindata.org/co2/country/united-kingdom?country=~GBR">United Kingdom</a></li><li><a href="https://ourworldindata.org/co2/country/china?country=~CHN">China</a></li><li><a href="https://ourworldindata.org/co2/country/india?country=~IND">India</a></li><li><a href="https://ourworldindata.org/co2/country/brazil?country=~BRA">Brazil</a></li><li><a href="https://ourworldindata.org/co2/country/south-africa?country=~ZAF">South Africa</a></li><li><a href="https://ourworldindata.org/co2/country/germany?country=~DEU">Germany</a></li><li><a href="https://ourworldindata.org/co2/country/spain?country=~ESP">Spain</a></li><li><a href="https://ourworldindata.org/co2/country/france?country=~FRA">France</a></li><li><a href="https://ourworldindata.org/co2/country/canada?country=~CAN">Canada</a></li><li><a href="https://ourworldindata.org/co2/country/australia?country=~AUS">Australia</a></li><li><a href="https://ourworldindata.org/co2/country/sweden?country=~SWE">Sweden</a></li></ul>
 </div></div></div>
 

diff --git a/grapher/nuclear-weapons-proliferation.html b/grapher/nuclear-weapons-proliferation.html
@@ -12,14 +12,14 @@
   "slug": "nuclear-weapons-proliferation",
   "type": "StackedBar",
   "title": "Nuclear weapons proliferation",
-  "version": 23,
+  "version": 24,
   "subtitle": "Number of countries that consider, pursue, or possess nuclear weapons.",
   "originUrl": "https://ourworldindata.org/nuclear-weapons",
   "dimensions": [
     {
       "display": {
         "name": "Considering",
-        "color": "#c7920e",
+        "color": "#bc8e5a",
         "shortUnit": "",
         "includeInTable": true,
         "numDecimalPlaces": 0
@@ -30,7 +30,7 @@
     {
       "display": {
         "name": "Pursuing",
-        "color": "#ca4015",
+        "color": "#e56e5a",
         "includeInTable": true,
         "numDecimalPlaces": 0
       },
@@ -40,7 +40,7 @@
     {
       "display": {
         "name": "Possessing",
-        "color": "#6b061c",
+        "color": "#883039",
         "includeInTable": true,
         "numDecimalPlaces": 0
       },

diff --git a/democracy.html b/democracy.html
@@ -1862,7 +1862,7 @@ Justifies democracy characteristics</td>
 
 
 
-<div class="wp-container-6331745a5a3d1 wp-block-group">
+<div class="wp-container-63317b5088fa7 wp-block-group">
 <ul><li><strong>full democracy</strong>: comprehensive extent of democracy, few weaknesses</li><li><strong>flawed democracy</strong>: some weaknesses in democratic institutions and culture</li><li><strong>hybrid regime</strong>: serious weaknesses in democratic institutions and culture</li><li><strong>authoritarian regime</strong>: few democratic institutions and little democratic culture</li></ul>
 </div>
 </div>

diff --git a/democracies-measurement.html b/democracies-measurement.html
@@ -531,7 +531,7 @@ Justifies democracy characteristics</td>
 
 
 
-<div class="wp-container-6331744beb196 wp-block-group">
+<div class="wp-container-63317b4321a53 wp-block-group">
 <ul><li><strong>full democracy</strong>: comprehensive extent of democracy, few weaknesses</li><li><strong>flawed democracy</strong>: some weaknesses in democratic institutions and culture</li><li><strong>hybrid regime</strong>: serious weaknesses in democratic institutions and culture</li><li><strong>authoritarian regime</strong>: few democratic institutions and little democratic culture</li></ul>
 </div>
 </div>

diff --git a/grapher/country-position-nuclear-weapons.html b/grapher/country-position-nuclear-weapons.html
@@ -11,10 +11,10 @@
       "binningStrategy": "manual",
       "colorSchemeInvert": true,
       "customNumericColors": [
-        "#526998",
-        "#fee090",
-        "#f46d43",
-        "#6b061c"
+        "#4c6a9c",
+        "#bc8e5a",
+        "#e56e5a",
+        "#883039"
       ],
       "customNumericLabels": [
         "Does not consider",
@@ -253,7 +253,7 @@
     "min": 0,
     "facetDomain": "shared"
   },
-  "version": 41,
+  "version": 42,
   "hasMapTab": true,
   "originUrl": "https://ourworldindata.org/nuclear-weapons",
   "colorScale": {
